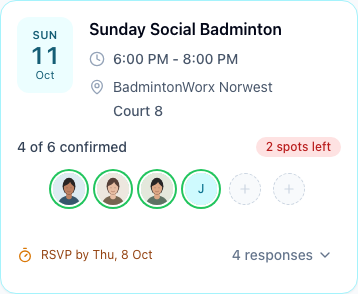
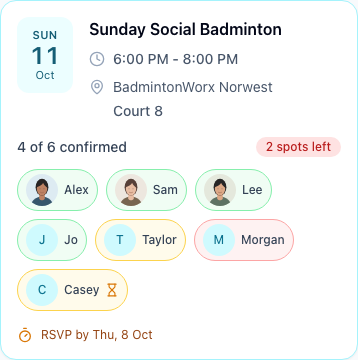
feat(sessions): show one visible list of RSVP player chips

diff --git a/frontend/src/components/sessions/SessionCard.tsx b/frontend/src/components/sessions/SessionCard.tsx
@@ -1,12 +1,9 @@
-import { useState } from 'react';
 import { useNavigate } from 'react-router-dom';
-import { Clock, Check, HelpCircle, X, ChevronDown, ChevronUp, MapPin, Timer, Hourglass } from 'lucide-react';
+import { Clock, MapPin, Timer } from 'lucide-react';
 import { format, parseISO } from 'date-fns';
 import type { Session, TimeFormat } from '../../types';
 import Badge from '../ui/Badge';
-import Avatar from '../ui/Avatar';
-import PlayerSlotIndicator from './PlayerSlotIndicator';
-import { displayName } from '../../utils/members';
+import PlayerRSVPChips from './PlayerRSVPChips';
 import { formatSessionTimeRange } from '../../utils/session-display';
 
 interface SessionCardProps {
@@ -19,28 +16,18 @@ interface SessionCardProps {
 
 export default function SessionCard({ session, venueName, courtNumber, timeFormat, featured = false }: SessionCardProps) {
   const navigate = useNavigate();
-  const [isExpanded, setIsExpanded] = useState(false);
 
   const sessionDate = parseISO(session.session_date);
   const isDeadlinePassed = new Date() > new Date(session.rsvp_deadline);
 
   const confirmedRsvps = session.rsvps?.filter(r => r.status === 'in') || [];
   const waitlistedRsvps = session.rsvps?.filter(r => r.status === 'waitlisted') || [];
-  const maybeRsvps = session.rsvps?.filter(r => r.status === 'maybe') || [];
-  const declinedRsvps = session.rsvps?.filter(r => r.status === 'out') || [];
 
   const confirmedCount = confirmedRsvps.length;
-  const maybeCount = maybeRsvps.length;
-  const declinedCount = declinedRsvps.length;
   const spotsLeft = session.max_players - confirmedCount;
 
   const handleCardClick = () => {
     navigate(`/sessions/${session.id}`);
-  };
-
-  const handleExpandClick = (e: React.MouseEvent) => {
-    e.stopPropagation();
-    setIsExpanded(!isExpanded);
   };
 
   return (
@@ -92,123 +79,19 @@ export default function SessionCard({ session, venueName, courtNumber, timeForma
               <Badge variant="success">RSVP open</Badge>
             )}
           </div>
-          <PlayerSlotIndicator
-            capacity={session.max_players}
-            reservedCount={confirmedCount}
-            players={confirmedRsvps.map(({ id, user }) => ({
-              id,
-              name: displayName(user),
-              picture: user?.profile_picture,
-            }))}
-          />
         </div>
 
-        <div className="mt-3 flex items-center justify-between gap-3">
-          {!isDeadlinePassed && session.status !== 'cancelled' ? (
-            <div className="flex min-w-0 items-center gap-2 text-xs text-amber-800">
-              <Timer className="h-4 w-4 shrink-0 text-amber-600" />
-              <span className="truncate">RSVP by {format(new Date(session.rsvp_deadline), 'EEE, d MMM')}</span>
-            </div>
-          ) : <span />}
-          <button
-            onClick={handleExpandClick}
-            className="flex min-h-11 shrink-0 items-center gap-1 rounded-xl px-2 text-sm font-medium text-slate-500 hover:bg-slate-100 hover:text-slate-800"
-            title={isExpanded ? 'Collapse' : 'Expand'}
-          >
-            {isExpanded ? 'Hide players' : `${maybeCount + declinedCount + confirmedCount + waitlistedRsvps.length} responses`}
-            {isExpanded ? (
-              <ChevronUp className="h-4 w-4" />
-            ) : (
-              <ChevronDown className="h-4 w-4" />
-            )}
-          </button>
+        <div className="mt-3">
+          <PlayerRSVPChips rsvps={session.rsvps ?? []} />
         </div>
+
+        {!isDeadlinePassed && session.status !== 'cancelled' && (
+          <div className="mt-4 flex min-w-0 items-center gap-2 text-xs text-amber-800">
+            <Timer className="h-4 w-4 shrink-0 text-amber-600" aria-hidden="true" />
+            <span>RSVP by {format(new Date(session.rsvp_deadline), 'EEE, d MMM')}</span>
+          </div>
+        )}
       </div>
-
-      {/* Expanded Player List */}
-      {isExpanded && (
-        <div className="space-y-3 border-t border-slate-100 bg-slate-50 p-4">
-          {/* Confirmed Players */}
-          {confirmedRsvps.length > 0 && (
-            <div>
-              <div className="flex items-center gap-1.5 mb-2">
-                <Check className="w-3.5 h-3.5 text-green-600" />
-                <span className="text-xs font-medium text-slate-600 uppercase tracking-wide">Confirmed</span>
-              </div>
-              <div className="flex flex-wrap gap-2">
-                {confirmedRsvps.map((rsvp) => (
-                  <PlayerChip key={rsvp.id} name={displayName(rsvp.user)} picture={rsvp.user?.profile_picture} variant="confirmed" />
-                ))}
-              </div>
-            </div>
-          )}
-
-          {/* Maybe Players */}
-          {maybeRsvps.length > 0 && (
-            <div>
-              <div className="flex items-center gap-1.5 mb-2">
-                <HelpCircle className="w-3.5 h-3.5 text-amber-600" />
-                <span className="text-xs font-medium text-slate-600 uppercase tracking-wide">Maybe</span>
-              </div>
-              <div className="flex flex-wrap gap-2">
-                {maybeRsvps.map((rsvp) => (
-                  <PlayerChip key={rsvp.id} name={displayName(rsvp.user)} picture={rsvp.user?.profile_picture} variant="maybe" />
-                ))}
-              </div>
-            </div>
-          )}
-
-          {/* Declined Players */}
-          {declinedRsvps.length > 0 && (
-            <div>
-              <div className="flex items-center gap-1.5 mb-2">
-                <X className="w-3.5 h-3.5 text-red-600" />
-                <span className="text-xs font-medium text-slate-600 uppercase tracking-wide">Can't Make It</span>
-              </div>
-              <div className="flex flex-wrap gap-2">
-                {declinedRsvps.map((rsvp) => (
-                  <PlayerChip key={rsvp.id} name={displayName(rsvp.user)} picture={rsvp.user?.profile_picture} variant="declined" />
-                ))}
-              </div>
-            </div>
-          )}
-
-          {/* Waitlisted players have responded and should be visible with the response total. */}
-          {waitlistedRsvps.length > 0 && (
-            <div>
-              <div className="flex items-center gap-1.5 mb-2">
-                <Hourglass className="w-3.5 h-3.5 text-amber-600" />
-                <span className="text-xs font-medium text-slate-600 uppercase tracking-wide">Waitlisted</span>
-              </div>
-              <div className="flex flex-wrap gap-2">
-                {waitlistedRsvps.map((rsvp) => (
-                  <PlayerChip key={rsvp.id} name={displayName(rsvp.user)} picture={rsvp.user?.profile_picture} variant="waitlisted" />
-                ))}
-              </div>
-            </div>
-          )}
-
-          {/* No RSVPs */}
-          {confirmedRsvps.length === 0 && maybeRsvps.length === 0 && declinedRsvps.length === 0 && waitlistedRsvps.length === 0 && (
-            <p className="text-sm text-slate-500 text-center py-2">No RSVPs yet</p>
-          )}
-        </div>
-      )}
     </article>
-  );
-}
-
-function PlayerChip({ name, picture, variant }: { name: string; picture?: string; variant: 'confirmed' | 'maybe' | 'declined' | 'waitlisted' }) {
-  const borderColor = variant === 'confirmed'
-    ? 'border-green-200 bg-green-50'
-    : variant === 'maybe' || variant === 'waitlisted'
-      ? 'border-amber-200 bg-amber-50'
-      : 'border-red-200 bg-red-50';
-
-  return (
-    <div className={`flex items-center gap-1.5 px-2 py-1 rounded-full border ${borderColor}`}>
-      <Avatar src={picture} name={name} size="sm" />
-      <span className="text-xs font-medium text-slate-700 max-w-[100px] truncate">{name.split(' ')[0]}</span>
-    </div>
   );
 }

diff --git a/frontend/src/components/sessions/PlayerRSVPChips.tsx b/frontend/src/components/sessions/PlayerRSVPChips.tsx
@@ -1,0 +1,42 @@
+import { Hourglass } from 'lucide-react';
+import type { RSVP, RSVPStatus } from '../../types';
+import { displayName } from '../../utils/members';
+import Avatar from '../ui/Avatar';
+
+const statusOrder: RSVPStatus[] = ['in', 'maybe', 'out', 'waitlisted'];
+const statusStyles: Record<RSVPStatus, { label: string; className: string }> = {
+  in: { label: 'Confirmed', className: 'border-green-300 bg-green-50' },
+  maybe: { label: 'Tentative', className: 'border-amber-300 bg-amber-50' },
+  out: { label: 'Not attending', className: 'border-red-300 bg-red-50' },
+  waitlisted: { label: 'Waitlisted', className: 'border-amber-300 bg-amber-50' },
+};
+
+export default function PlayerRSVPChips({ rsvps }: { rsvps: RSVP[] }) {
+  if (rsvps.length === 0) {
+    return <p className="text-sm text-slate-500">No RSVPs yet</p>;
+  }
+
+  return (
+    <ul aria-label="Player responses" className="flex flex-wrap gap-2">
+      {statusOrder.flatMap(status => rsvps.filter(rsvp => rsvp.status === status)).map(rsvp => {
+        const name = displayName(rsvp.user) || 'Player';
+        const { label, className } = statusStyles[rsvp.status];
+
+        return (
+          <li
+            key={rsvp.id}
+            aria-label={`${name}, ${label}`}
+            title={`${name}, ${label}`}
+            className={`flex max-w-full items-center gap-1.5 rounded-full border px-2 py-1 ${className}`}
+          >
+            <span aria-hidden="true" className="shrink-0">
+              <Avatar src={rsvp.user?.profile_picture} name={name} size="sm" />
+            </span>
+            <span className="max-w-[100px] truncate text-xs font-medium text-slate-700">{name}</span>
+            {rsvp.status === 'waitlisted' && <Hourglass className="h-3.5 w-3.5 shrink-0 text-amber-600" aria-hidden="true" />}
+          </li>
+        );
+      })}
+    </ul>
+  );
+}
